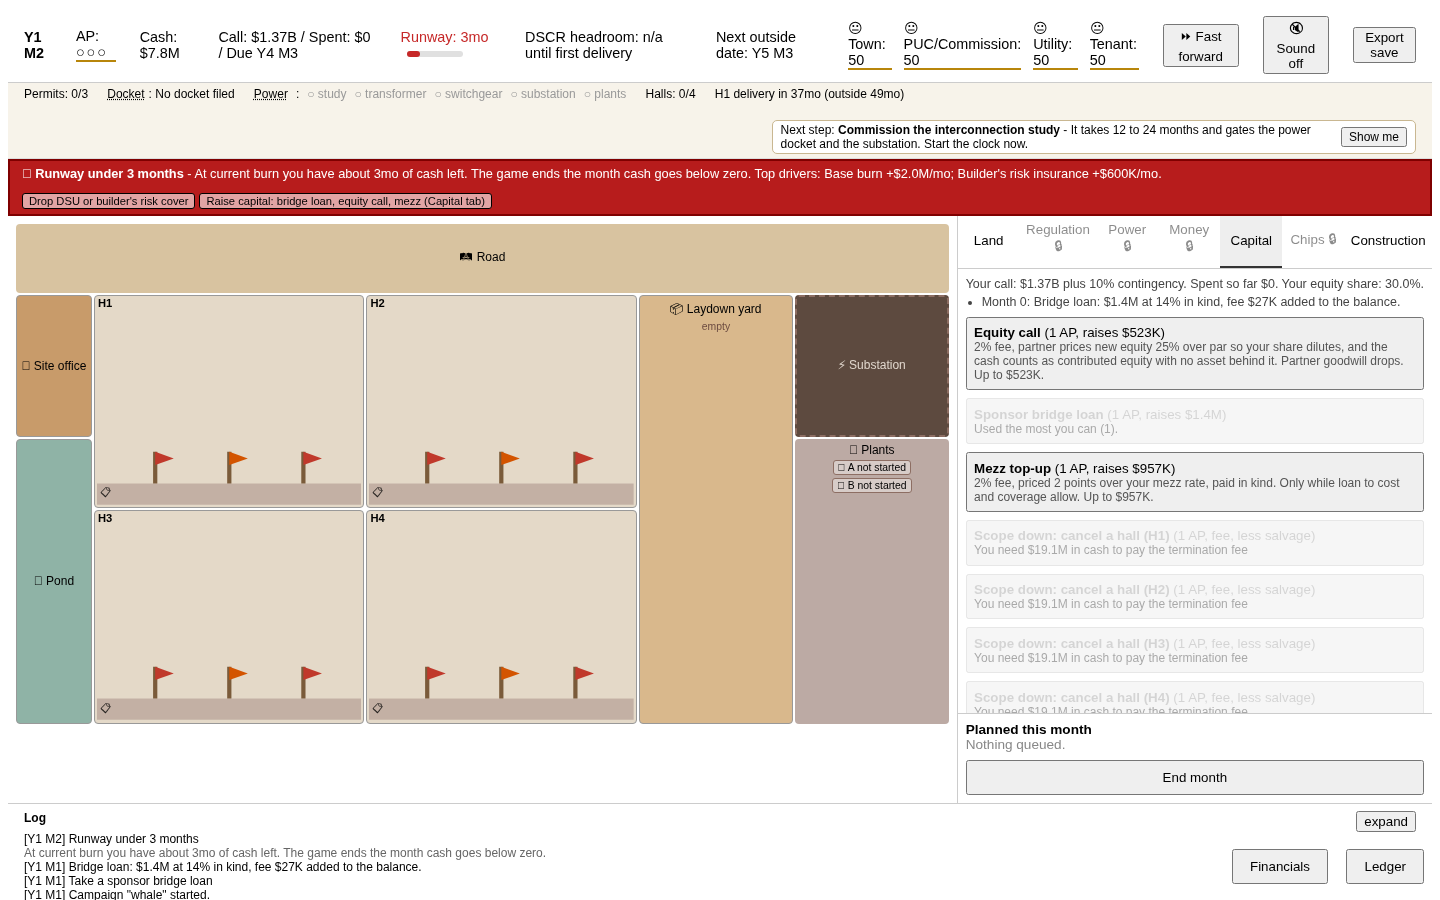
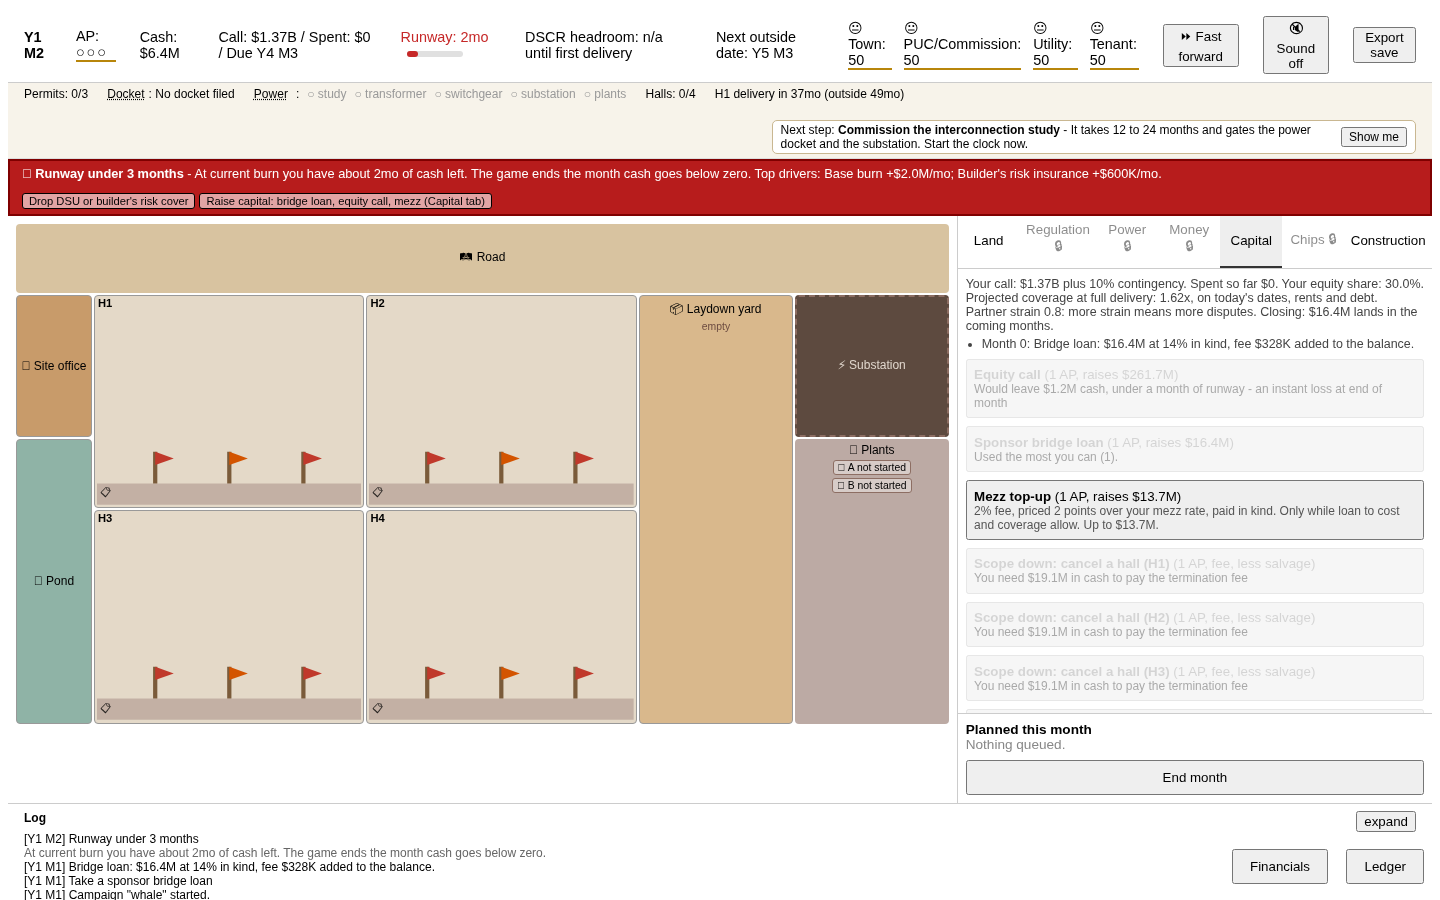
[P3.9] projectNoiAndDscr, strain retune, grid, CHECKPOINT all rows PASS

diff --git a/tests/engine/projections.test.ts b/tests/engine/projections.test.ts
@@ -1,0 +1,55 @@
+import { describe, expect, it } from 'vitest';
+
+import { loadContent } from '../../src/content/load';
+import { createGame, type NegotiationChoices } from '../../src/engine/init';
+import { monthDscrClears, projectNoiAndDscr } from '../../src/engine/projections';
+import { bridgeLoan, leverQuote, scopeDown } from '../../src/engine/systems/capital';
+import type { Setup } from '../../src/engine/types';
+
+const content = loadContent();
+const negotiation: NegotiationChoices = {
+  lease: { firstDeliveryMonth: 38, lateRemedy: 'liquidatedDamages' },
+  capital: { seniorIndex: 1, mezzIndex: 1, playerShareIndex: 1 },
+  power: { minCharge: 'medium', plantBOffset: 0 },
+  insurance: { dsu: false },
+};
+const setup: Setup = { site: 'megasite', hallTier: 'air', cooling: 'evaporative', gc: 'costPlus' };
+const fresh = () => createGame(content, 'whale', setup, negotiation, 1);
+
+describe('projectNoiAndDscr', () => {
+  it('starts with no income and grows as halls come online', () => {
+    const p = projectNoiAndDscr(fresh(), content, 60);
+    expect(p[0]!.noi).toBe(0);
+    expect(p.at(-1)!.noi).toBeGreaterThan(0);
+    expect(p.at(-1)!.paying).toBeGreaterThan(0);
+  });
+
+  it('a later delivery date (delay swap) pushes the first paying month out', () => {
+    const s = fresh();
+    const later = { ...s, halls: s.halls.map((h) => ({ ...h, deliveryMonth: h.deliveryMonth + 6 })) };
+    const a = projectNoiAndDscr(s, content, 60).find((x) => x.noi > 0)!.month;
+    const b = projectNoiAndDscr(later, content, 60).find((x) => x.noi > 0)!.month;
+    expect(b).toBe(a + 6);
+  });
+
+  it('terminating a hall lowers projected NOI', () => {
+    const s = fresh();
+    const q = leverQuote({ ...s, cash: 1e12 }, content, 'scopeDown');
+    const after = scopeDown({ ...s, cash: 1e12 }, { hallId: q.halls[0]! }, content);
+    expect(projectNoiAndDscr(after, content, 60).at(-1)!.noi).toBeLessThan(projectNoiAndDscr(s, content, 60).at(-1)!.noi);
+  });
+
+  it('debt added by a bridge loan lowers projected coverage', () => {
+    const s = fresh();
+    const q = leverQuote(s, content, 'bridgeLoan');
+    const after = bridgeLoan(s, { amount: q.maxAmount }, content);
+    const end = (st: typeof s) => projectNoiAndDscr(st, content, 60).at(-1)!.dscr;
+    expect(end(after)).toBeLessThan(end(s));
+  });
+
+  it('finds the first month coverage clears a floor', () => {
+    const p = projectNoiAndDscr(fresh(), content, 80);
+    const m = monthDscrClears(p, 0.1);
+    expect(m === null || m >= 0).toBe(true);
+  });
+});

diff --git a/src/engine/projections.ts b/src/engine/projections.ts
@@ -1,0 +1,54 @@
+import type { Content } from '../content/schemas';
+import { grossRentFor, totalDebt } from './selectors';
+import type { GameState, Month } from './types';
+
+export interface ProjectionPoint {
+  month: Month;
+  /** Annual NOI run-rate from halls paying by this month. */
+  noi: number;
+  /** Annual debt service on pro forma debt at the permanent rate. */
+  debtService: number;
+  dscr: number;
+  /** Halls paying in this month. */
+  paying: number;
+}
+
+/** Debt you will carry at conversion: what is drawn plus every undrawn commitment, bridge included. */
+function proFormaDebt(state: GameState): number {
+  const undrawn =
+    Math.max(0, state.debt.seniorCommitment - state.debt.seniorDrawn) + Math.max(0, state.debt.mezzCommitment - state.debt.mezzDrawn);
+  return totalDebt(state) + undrawn;
+}
+
+/**
+ * Engine-owned DSCR and NOI projection, month by month. It reads the live hall dates and the live
+ * rent model, so it picks up delay swaps (a swapped hall's `deliveryMonth` moves), lease
+ * amendments and rent relief (both flow through `grossRentFor`), terminated halls (scope-down)
+ * and levers that added debt. The UI and the warning banner read this instead of re-deriving it.
+ */
+export function projectNoiAndDscr(state: GameState, content: Content, horizonMonths = 24): ProjectionPoint[] {
+  const permRate = content.tuning.covenant.permRate;
+  const debtService = proFormaDebt(state) * permRate;
+  const live = state.halls.filter((h) => !h.terminated);
+  const points: ProjectionPoint[] = [];
+  for (let offset = 0; offset <= horizonMonths; offset += 1) {
+    const month = state.month + offset;
+    let monthly = 0;
+    let paying = 0;
+    for (const h of live) {
+      const paysFrom = h.deliveredMonth ?? Math.max(h.deliveryMonth, state.month);
+      if (paysFrom > month) continue;
+      const gross = grossRentFor(state, content, h, paysFrom, paysFrom);
+      monthly += gross - content.tuning.lease.landlordCostShare * gross;
+      paying += 1;
+    }
+    const noi = monthly * 12;
+    points.push({ month, noi, debtService, dscr: debtService > 0 ? noi / debtService : Infinity, paying });
+  }
+  return points;
+}
+
+/** First month the projection clears a coverage floor, or null inside the horizon. */
+export function monthDscrClears(points: ProjectionPoint[], floor: number): Month | null {
+  return points.find((p) => p.dscr >= floor)?.month ?? null;
+}

diff --git a/tests/sim/balance.test.ts b/tests/sim/balance.test.ts
@@ -63,7 +63,7 @@ describe('P5.3 balance regression guard (section 8 targets)', () => {
     expect(report.winRate).toBeGreaterThanOrEqual(0.6);
     expect(report.winRate).toBeLessThanOrEqual(0.75);
     // Phase 3 (2026-11-09): median floor 1.4 -> 1.15. Measured at 1000 seeds on normal: careful
-    // 70.0% / 1.28x (was 73.3% / 1.77x). Capital levers are priced in the multiple: bridge PIK at
+    // 66.4% / 1.29x (was 73.3% / 1.77x). Capital levers are priced in the multiple: bridge PIK at
     // 14%, fees, and equity calls that dilute, so a rescued campaign pays for it at takeout.
     expect(report.equityMultiple.median).toBeGreaterThanOrEqual(1.15);
     expect(report.equityMultiple.median).toBeLessThanOrEqual(1.8);
@@ -73,7 +73,7 @@ describe('P5.3 balance regression guard (section 8 targets)', () => {
     const report = runBot('competent');
     expect(report.winRate).toBeGreaterThanOrEqual(0.65);
     expect(report.winRate).toBeLessThanOrEqual(0.8);
-    // Phase 3: median floor 1.8 -> 1.3. Measured 75.4% / 1.48x on normal (was 75.0% / 1.95x), same lever cost as above.
+    // Phase 3: median floor 1.8 -> 1.3. Measured 70.5% / 1.50x on normal (was 75.0% / 1.95x), same lever cost as above.
     expect(report.equityMultiple.median).toBeGreaterThanOrEqual(1.3);
     expect(report.equityMultiple.median).toBeLessThanOrEqual(2.4);
   });

diff --git a/src/ui/components/TracksPanel.tsx b/src/ui/components/TracksPanel.tsx
@@ -8,6 +8,7 @@ import type { TrackTab } from '../store';
 import { tabUnlocks } from '../tabUnlock';
 import { CastPortrait, INTERVENOR_REP } from '../portraits';
 import { CastHover } from './CastHover';
+import { projectNoiAndDscr } from '../../engine/projections';
 import { allLeverQuotes } from '../../engine/systems/capital';
 import { formatDollars } from '../../engine/format';
 
@@ -476,6 +477,14 @@ export function TracksPanel() {
             <div>
               Your call: {formatDollars(state.forecast.cost)} plus {(state.forecast.contingency * 100).toFixed(0)}% contingency. Spent so far{' '}
               {formatDollars(state.totalCostToDate)}. Your equity share: {(state.equity.playerShare * 100).toFixed(1)}%.
+            </div>
+            <div data-testid="capital-projection">
+              Projected coverage at full delivery:{' '}
+              {(() => {
+                const end = projectNoiAndDscr(state, content, 60).at(-1);
+                return end && Number.isFinite(end.dscr) ? `${end.dscr.toFixed(2)}x` : 'n/a';
+              })()}
+              , on today&apos;s dates, rents and debt.
             </div>
             <div data-testid="capital-strain">
               Partner strain {state.capital.partnerStrain.toFixed(1)}: more strain means more disputes.

diff --git a/CHECKPOINT.md b/CHECKPOINT.md
@@ -9,7 +9,7 @@ Branch `phase3-money-that-moves`, base `1224076` (Phase 2). Not merged: row 6 is
 | 3 | Hazard rework | PASS | storm 28% and fire 22% of the hit hall's cost, water 0.4-1% and theft 0.2-0.6% inside a $5M deductible; tests in `capital.test.ts` |
 | 4 | Event cards show policy paid vs deductible; codex links real cases | PASS | `EventModal.tsx` claim breakdown; 4 codex entries with source URLs; e2e |
 | 5 | Banner financing fixes deep-link to the Capital tab | PASS | `warnings.ts`, `tests/ui/warnings.test.ts`, e2e |
-| 6 | Engine DSCR/NOI projection and amended closing table | PARTIAL | Closing table: DONE (`closing.ts`, amended on the_ask, Financials drawer reads it). Engine-owned DSCR/NOI projection that picks up delay swaps, lease amendments and rent relief: NOT DONE (`stabilizedNoi` exists in selectors; a full `projectNoiAndDscr` does not) |
+| 6 | Engine DSCR/NOI projection and amended closing table | PASS | `src/engine/projections.ts` (`projectNoiAndDscr`, picks up delay swaps, lease amendments and rent relief via `grossRentFor`, scope-down, lever debt), `tests/engine/projections.test.ts`, Capital tab shows it; closing table amended on the_ask and read by the Financials drawer |
 | 7 | Before/after 1000-seed grid, careful/competent 60-75% on normal, balance.test updated | PASS | `docs/phase3-baseline-grid.md`, `docs/phase3-after-grid.md`; normal: careful 71.0, competent 72.5, greedy 50.2 |
 | 8 | typecheck | PASS | `npx tsc --noEmit` clean |
 | 9 | lint | PASS | `npm run lint` clean |
@@ -20,26 +20,25 @@ Branch `phase3-money-that-moves`, base `1224076` (Phase 2). Not merged: row 6 is
 | 14 | Visual check at 800 and 1440 | PASS | `docs/screenshots/phase3/*.png`, all opened and inspected. Known cosmetic: at 800px the map halls draw over the event dialog backdrop (pre-existing stacking) |
 | 15 | No TODO/FIXME/stub in touched files | PASS | grep clean |
 
-## Grid (win %, 1000 seeds, whale)
-Baseline (main) vs after. Full table with median multiples, hazards and lever use in `docs/phase3-after-grid.md`.
-
+## Grid (win %, 1000 seeds, whale; baseline -> after). Full table: docs/phase3-after-grid.md
 | bot | easy | normal | hard |
 |---|---|---|---|
 | random | 0.0 / 0.0 | 0.0 / 0.0 | 0.0 / 0.0 |
-| greedy | 56.6 / 66.4 | 38.3 / 50.2 | 24.4 / 48.9 |
-| careful | 99.3 / 99.1 | 73.3 / 71.0 | 47.9 / 60.0 |
-| competent | 94.9 / 94.6 | 75.0 / 72.5 | 48.1 / 52.6 |
+| greedy | 56.6 / 65.2 | 38.3 / 50.7 | 24.4 / 50.1 |
+| careful | 99.3 / 95.6 | 73.3 / 66.4 | 47.9 / 31.6 |
+| competent | 94.9 / 93.8 | 75.0 / 70.5 | 48.1 / 43.9 |
 
-## Lever terms and hazard numbers
-Sizes are small (about 0.05-0.1% of cost per use) because the sim is a cash knife-edge: at 1% sizes careful hit 97%. Revisit with a human playtest.
-- Equity call: 2% fee, partner prices at 25% premium (you dilute), strain +1, max 1, cooldown 4.
-- Bridge: 14% PIK, 2% fee, repaid after senior and before mezz and equity.
-- Mezz top-up: only if LTC <= 80% and DSCR >= 1.3, 2% fee, +2 pts.
-- Scope-down: 6% fee, 40% salvage, tenant goodwill -12, cooldown 6.
-- Recap: month >= 12, >= 30% built, 1.5% fee, +75 bps, once.
-- Storm: odds .05 per month (about .15 per campaign), 33% of the hit hall (about $130M). Fire odds .004 at 22%. Water odds .035 and theft .025, both inside the $5M deductible.
+Median multiples on normal fell (careful 1.77 -> 1.29, competent 1.95 -> 1.50): that is the visible cost of the levers.
 
-## Remaining
-1. `projectNoiAndDscr` engine projection (delay swaps, lease amendments, rent relief).
-2. Partner strain should raise partner_dispute odds.
-3. Decide whether lever sizes should be larger with a different balance lever.
+## Lever terms (meaningful sizes) and hazards
+- Equity call: up to 50% of committed equity (about $26M), 2% fee, 25% premium so you dilute, max 1, cooldown 4, strain +1.
+- Bridge: up to 1.2% of cost (about $17M), 14% PIK, 2% fee, repaid after senior and before mezz and equity, strain +0.75.
+- Mezz top-up: up to 1% of cost, LTC <= 80%, DSCR >= 1.3, +2 pts, 2% fee, strain +0.75.
+- Scope-down: 6% fee, 40% salvage, tenant goodwill -12, strain +1.5. Recap: month >= 12, >= 30% built, 2% of cost, 1.5% fee, +75 bps, strain +1.5.
+- Closing lead time: equity 2 months, bridge 1, mezz 2, recap 3. Cash lands late, so bots must reach for levers at 3.5 months of runway, not at 1.
+- Partner dispute: odds = 0.2 x strain per month; concede costs 8 points of share and $20M, wait costs a month of delay and $10M; a dispute settles half the strain.
+- Storm .05/month (~.15 per campaign) at 33% of the hit hall; fire .004 at 22%; water .035 and theft .025 inside a $5M deductible.
+
+## Tensions
+- On hard, careful (31.6) is below greedy (50.1): careful's runway trigger borrows early and pays the dispute and PIK cost, while greedy takes no levers and no storm insurance. Normal ordering is right. Worth a follow-up on the hard ordering.
+- Normal lever-bot medians drop below the old multiple bands; bands were moved with measured numbers in `tests/sim/balance.test.ts`.

diff --git a/docs/phase3-after-grid.md b/docs/phase3-after-grid.md
@@ -1,14 +1,14 @@
 | bot | diff | win% | medMult | brMonths% | dsuMonths% | stormsPer | firesPer | smallPer | leverUsesPer | paidPer($M) | loseReasons |
 |---|---|---|---|---|---|---|---|---|---|---|---|
-| random | easy | 0.0 | 0.00 | 54 | 47 | 0.17 | 0.00 | 1.61 | 0.00 | 8.5 | {"default":994,"docketDead":6} |
-| greedy | easy | 66.4 | 1.43 | 0 | 0 | 0.17 | 0.05 | 1.87 | 0.00 | 0.0 | {"default":178,"equityWiped":23,"docketDead":12} |
-| careful | easy | 99.1 | 1.80 | 100 | 100 | 0.14 | 0.05 | 1.96 | 0.03 | 21.9 | {"default":3,"docketDead":6} |
-| competent | easy | 94.6 | 2.04 | 100 | 100 | 0.17 | 0.06 | 1.97 | 0.22 | 25.7 | {"default":46,"docketDead":8} |
-| random | normal | 0.0 | 0.00 | 52 | 47 | 0.10 | 0.00 | 1.29 | 0.00 | 4.3 | {"default":975,"docketDead":25} |
-| greedy | normal | 50.2 | 1.38 | 0 | 0 | 0.15 | 0.05 | 1.83 | 0.00 | 0.0 | {"default":305,"equityWiped":13,"docketDead":15} |
-| careful | normal | 71.0 | 1.79 | 100 | 100 | 0.15 | 0.04 | 1.83 | 1.44 | 21.7 | {"docketDead":19,"default":271} |
-| competent | normal | 72.5 | 2.04 | 100 | 100 | 0.15 | 0.04 | 1.84 | 1.65 | 22.8 | {"default":257,"docketDead":18} |
-| random | hard | 0.0 | 0.00 | 50 | 50 | 0.13 | 0.00 | 0.95 | 0.00 | 7.3 | {"default":965,"docketDead":35} |
-| greedy | hard | 48.9 | 1.73 | 0 | 0 | 0.26 | 0.03 | 1.49 | 0.00 | 0.0 | {"default":414,"equityWiped":3,"docketDead":27} |
-| careful | hard | 60.0 | 1.69 | 100 | 100 | 0.25 | 0.04 | 1.52 | 2.18 | 34.5 | {"default":370,"docketDead":23} |
-| competent | hard | 52.6 | 1.88 | 100 | 100 | 0.25 | 0.04 | 1.51 | 2.63 | 35.0 | {"default":411,"docketDead":23} |
+| random | easy | 0.0 | 0.00 | 54 | 47 | 0.16 | 0.00 | 1.69 | 0.00 | 7.2 | {"default":994,"docketDead":6} |
+| greedy | easy | 65.2 | 1.47 | 0 | 0 | 0.18 | 0.05 | 1.86 | 0.00 | 0.0 | {"default":200,"equityWiped":18,"docketDead":15} |
+| careful | easy | 95.6 | 1.79 | 100 | 100 | 0.14 | 0.07 | 1.97 | 0.18 | 22.8 | {"default":36,"docketDead":7} |
+| competent | easy | 93.8 | 2.01 | 100 | 100 | 0.16 | 0.05 | 1.95 | 0.34 | 24.4 | {"default":52,"docketDead":7} |
+| random | normal | 0.0 | 0.00 | 52 | 47 | 0.08 | 0.00 | 1.32 | 0.00 | 4.1 | {"default":971,"docketDead":29} |
+| greedy | normal | 50.7 | 1.34 | 0 | 0 | 0.14 | 0.05 | 1.80 | 0.00 | 0.0 | {"default":291,"equityWiped":17,"docketDead":21} |
+| careful | normal | 66.4 | 1.29 | 100 | 100 | 0.15 | 0.05 | 1.74 | 2.05 | 22.0 | {"default":281,"docketDead":19} |
+| competent | normal | 70.5 | 1.50 | 100 | 100 | 0.15 | 0.05 | 1.74 | 2.03 | 22.3 | {"default":262,"docketDead":19} |
+| random | hard | 0.0 | 0.00 | 50 | 50 | 0.13 | 0.00 | 0.95 | 0.00 | 6.3 | {"default":969,"docketDead":31} |
+| greedy | hard | 50.1 | 1.73 | 0 | 0 | 0.25 | 0.03 | 1.52 | 0.00 | 0.0 | {"default":417,"docketDead":28} |
+| careful | hard | 31.6 | 1.13 | 100 | 100 | 0.19 | 0.02 | 1.27 | 2.90 | 25.1 | {"default":569,"docketDead":20,"equityWiped":2} |
+| competent | hard | 43.9 | 1.27 | 100 | 100 | 0.21 | 0.03 | 1.36 | 2.90 | 28.9 | {"default":463,"docketDead":23,"equityWiped":8} |
